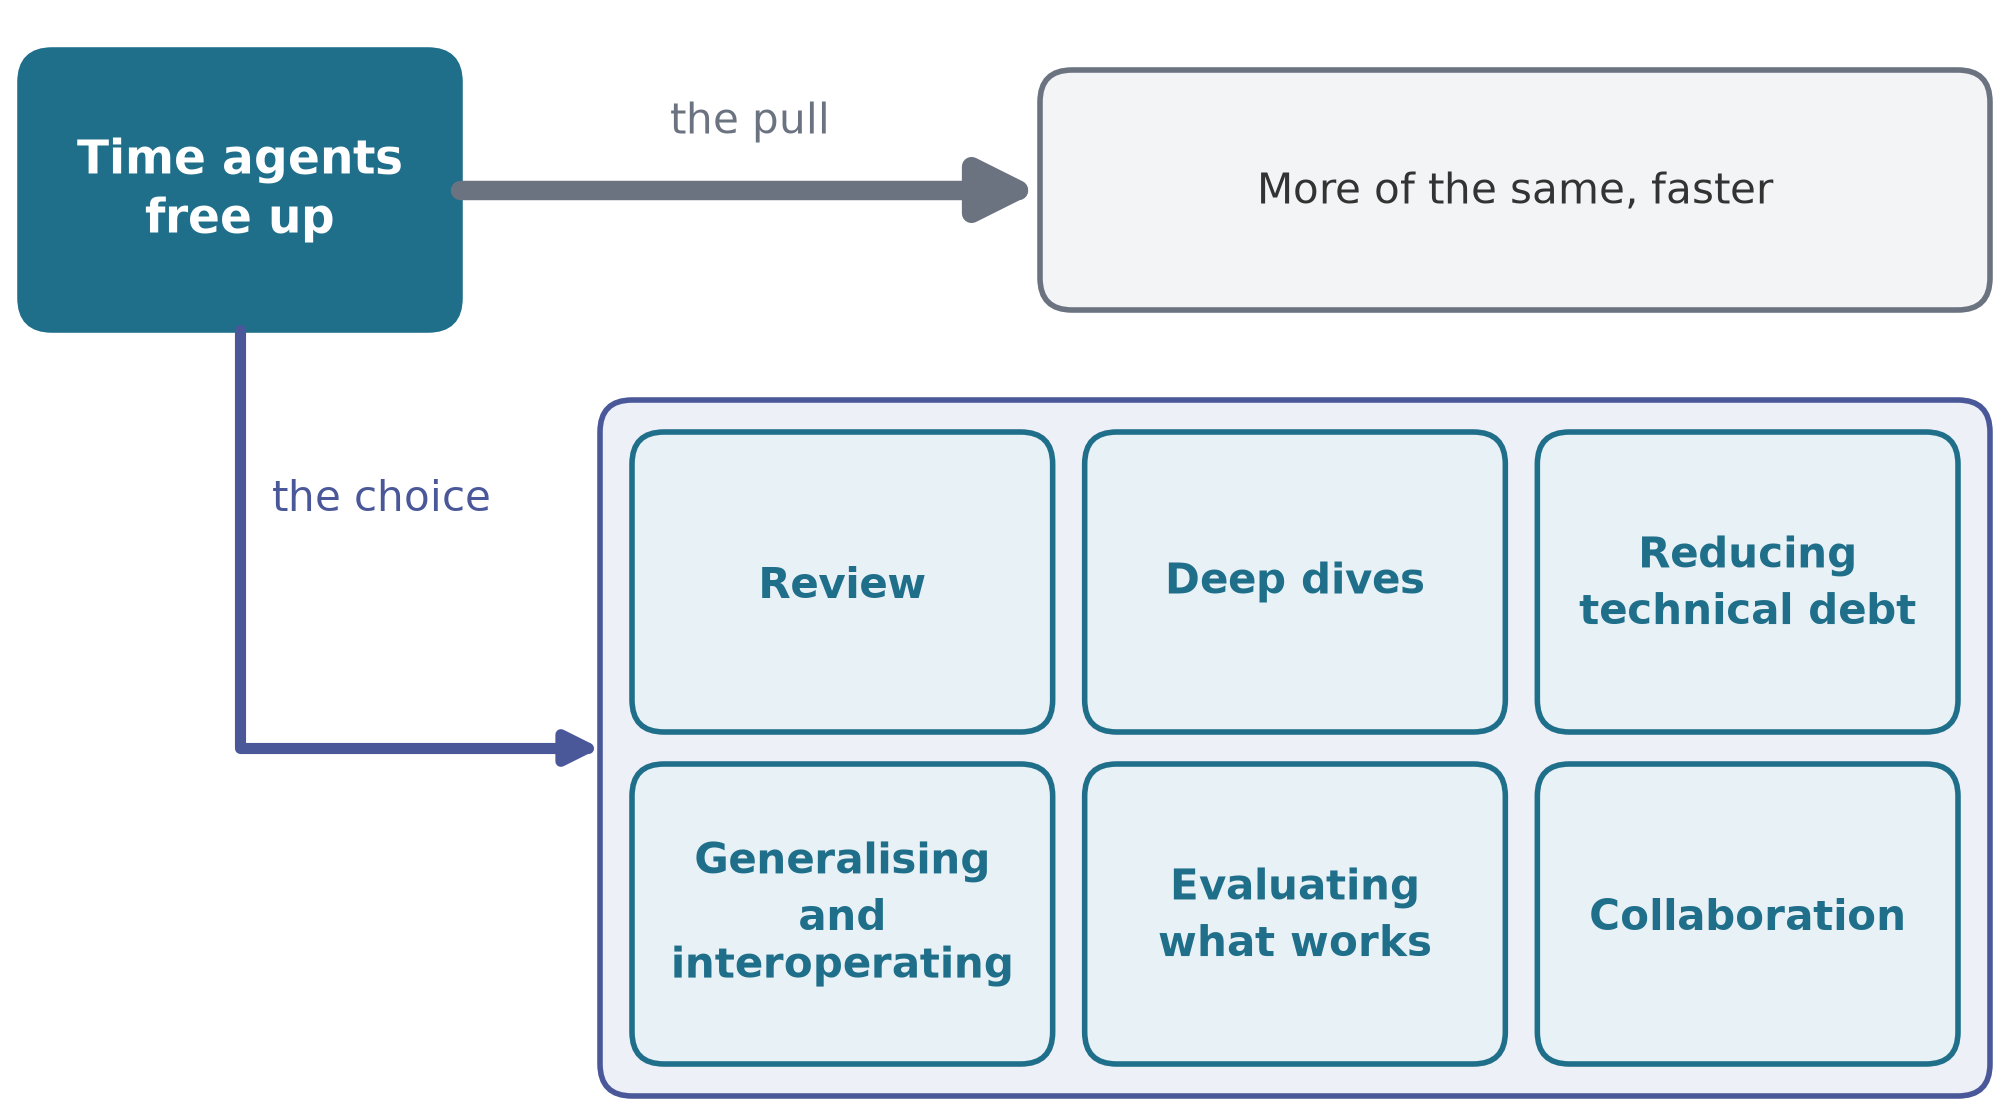
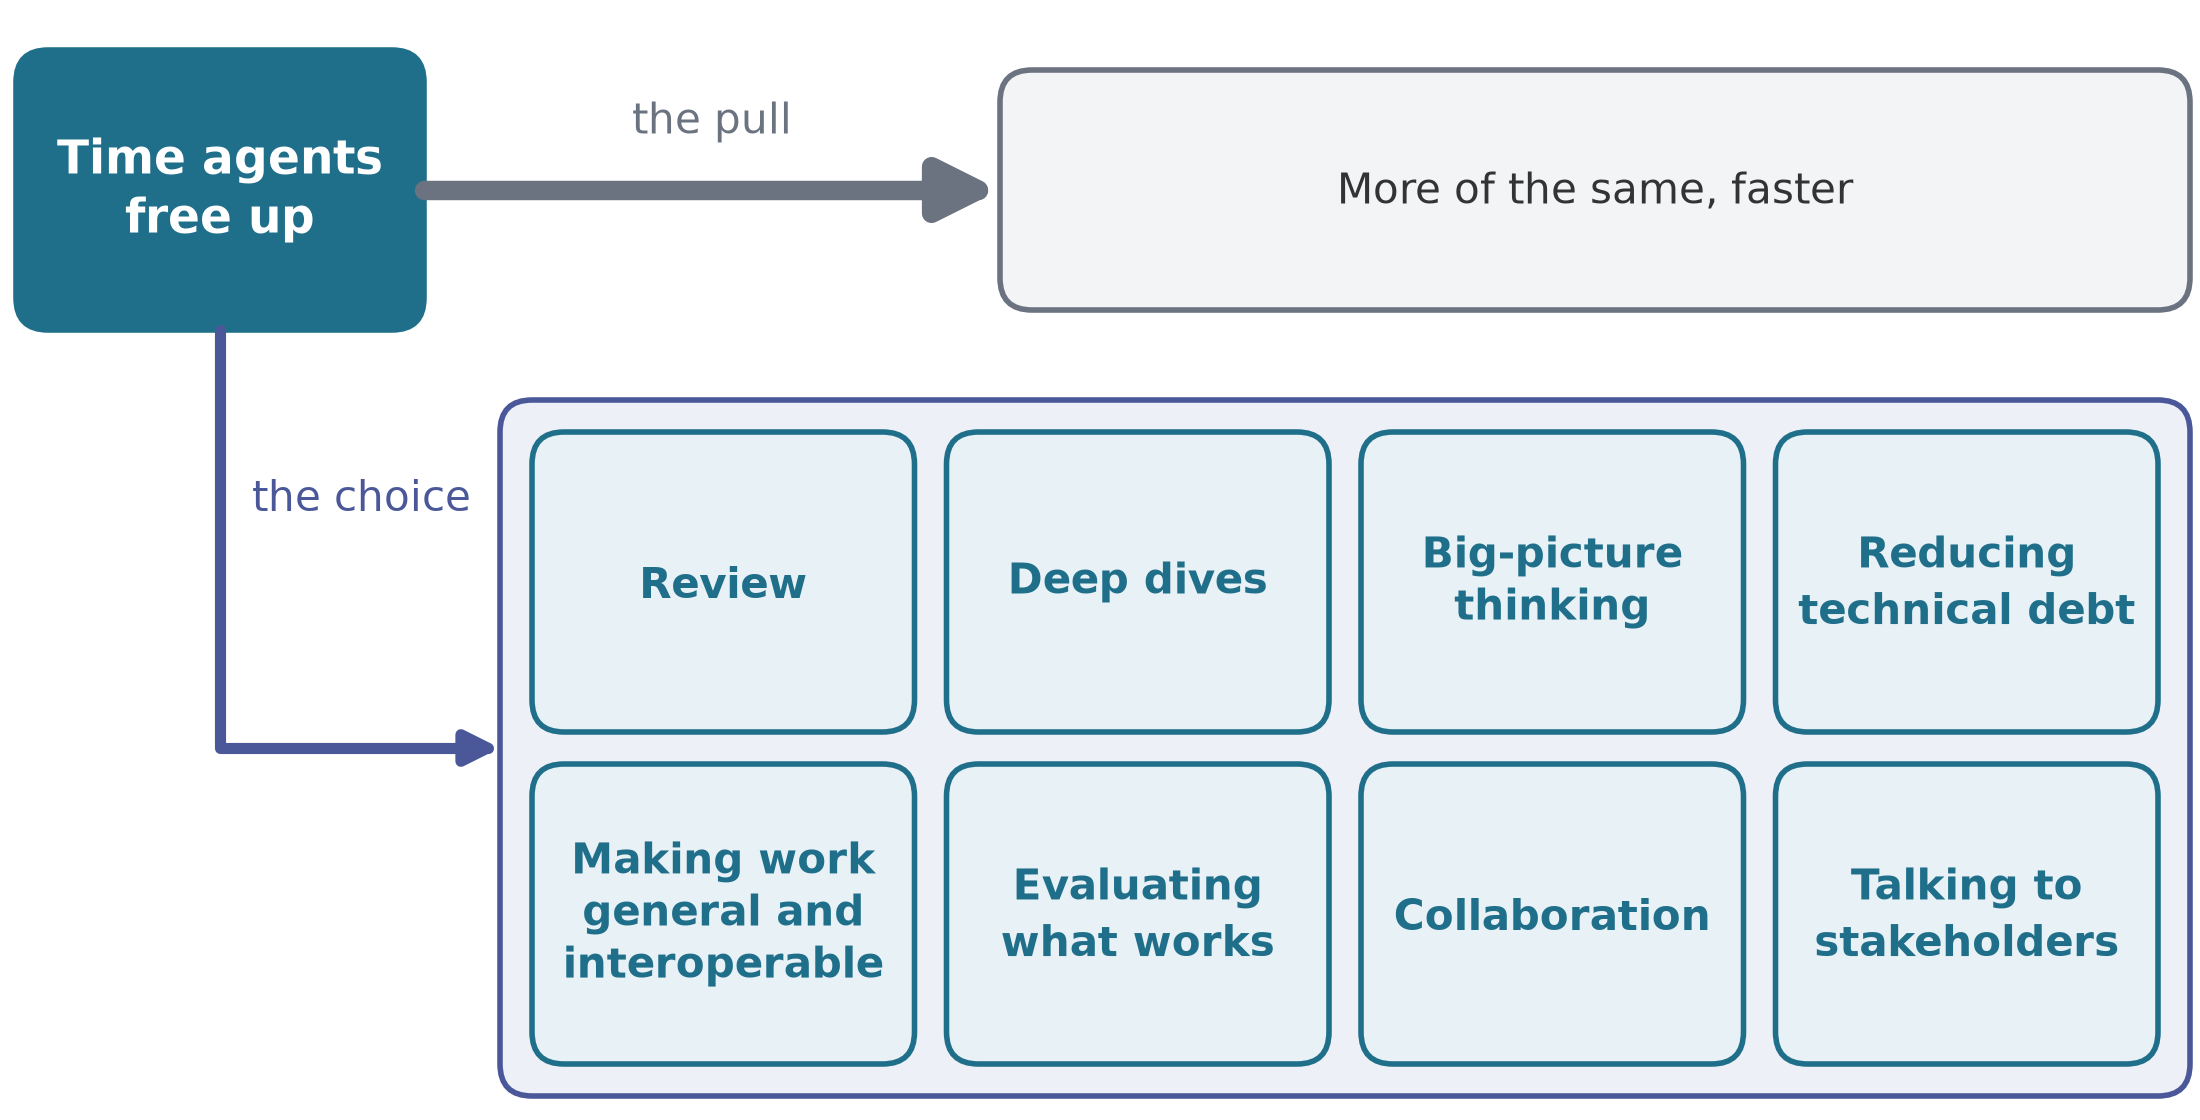
feat: a fire hose on the collaboration slide

diff --git a/scripts/agents-time.py b/scripts/agents-time.py
@@ -20,9 +20,9 @@ out = Path(__file__).resolve().parent.parent / "figures" / "agents-time.png"
 teal, slate = "#1f6f8b", "#4a5899"
 ink, muted, light, grey = "#333333", "#6b7280", "#e8f1f5", "#f3f4f6"
 plt.rcParams.update({"font.size": 15, "font.family": "DejaVu Sans"})
-fig, ax = plt.subplots(figsize=(10, 5.6), dpi=200)
+fig, ax = plt.subplots(figsize=(11, 5.6), dpi=200)
 fig.subplots_adjust(0, 0, 1, 1)
-ax.set_xlim(0, 100)
+ax.set_xlim(0, 110)
 ax.set_ylim(0, 56)
 ax.set_aspect("equal")
 ax.axis("off")
@@ -53,13 +53,13 @@ def line_path(*points):
 
 
 # The source: time agents free up.
-sx0, sx1, sy0, sy1 = 1, 23, 39.5, 53.5
+sx0, sx1, sy0, sy1 = 0.8, 21.2, 39.5, 53.5
 box(sx0, sy0, sx1, sy1, teal, teal)
 text((sx0 + sx1) / 2, (sy0 + sy1) / 2, "Time agents\nfree up", "white",
      fontsize=17, fontweight="bold")
 
 # Path 1, the default: more of the same, faster.
-gx0, gx1, gy0, gy1 = 52, 99.5, 40.5, 52.5
+gx0, gx1, gy0, gy1 = 50, 109.5, 40.5, 52.5
 gyc = (gy0 + gy1) / 2
 arrow(line_path((sx1, gyc), (gx0, gyc)), muted, 7)
 text((sx1 + gx0) / 2, gyc + 3.4, "the pull", muted)
@@ -67,18 +67,19 @@ box(gx0, gy0, gx1, gy1, muted, grey)
 text((gx0 + gx1) / 2, gyc, "More of the same, faster", ink)
 
 # Path 2, the choice: work agents make room for.
-fx0, fx1, fy0, fy1 = 30, 99.5, 1.2, 36
+fx0, fx1, fy0, fy1 = 25, 109.5, 1.2, 36
 box(fx0, fy0, fx1, fy1, slate, "#eef0f7")
 choices = [
-    "Review", "Deep dives", "Reducing\ntechnical debt",
-    "Generalising\nand\ninteroperating", "Evaluating\nwhat works",
-    "Collaboration",
+    "Review", "Deep dives", "Big-picture\nthinking",
+    "Reducing\ntechnical debt", "Making work\ngeneral and\ninteroperable",
+    "Evaluating\nwhat works", "Collaboration", "Talking to\nstakeholders",
 ]
+cols = 4
 gap = 1.6
-bw = (fx1 - fx0 - 2 * gap - 2 * gap) / 3
+bw = (fx1 - fx0 - (cols + 1) * gap) / cols
 bh = (fy1 - fy0 - 3 * gap) / 2
 for i, label in enumerate(choices):
-    row, col = divmod(i, 3)
+    row, col = divmod(i, cols)
     x0 = fx0 + gap + col * (bw + gap)
     y1 = fy1 - gap - row * (bh + gap)
     box(x0, y1 - bh, x0 + bw, y1, teal, light)

diff --git a/notes/steers.md b/notes/steers.md
@@ -321,3 +321,10 @@ Read as: cite the article on the freed-time slide.
 
 > "How much to hand over" needs a models-changing-quickly bullet: rapid
 > improvement in the last year.
+
+> Here, some kind of firehose picture ("How to collaborate in an
+> agent-driven ...") to make it a bit more interesting, in the bottom left?
+
+> "Interoperating" is not a word: making work interoperable?
+
+> Talking to stakeholders as something else we should do?
